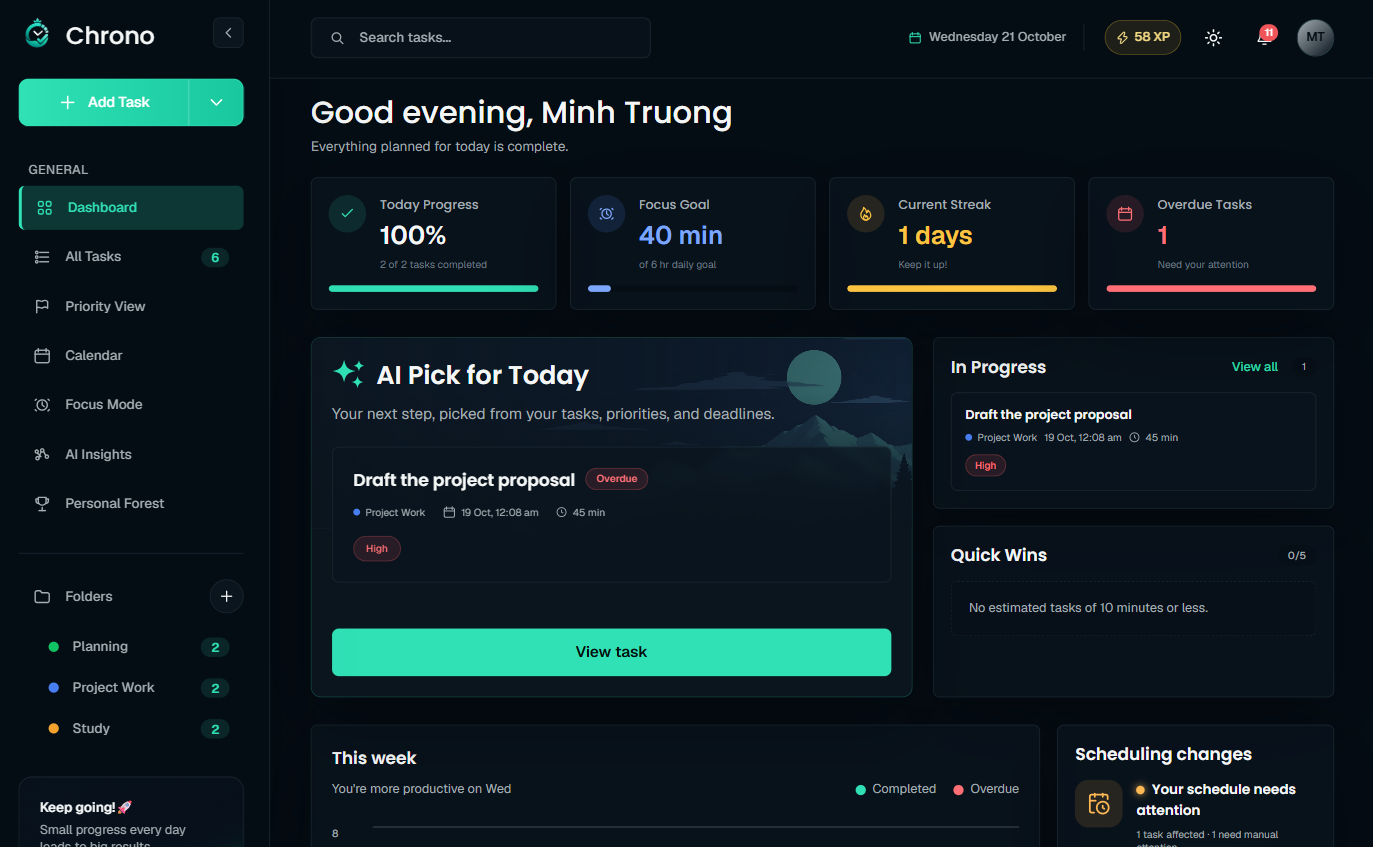
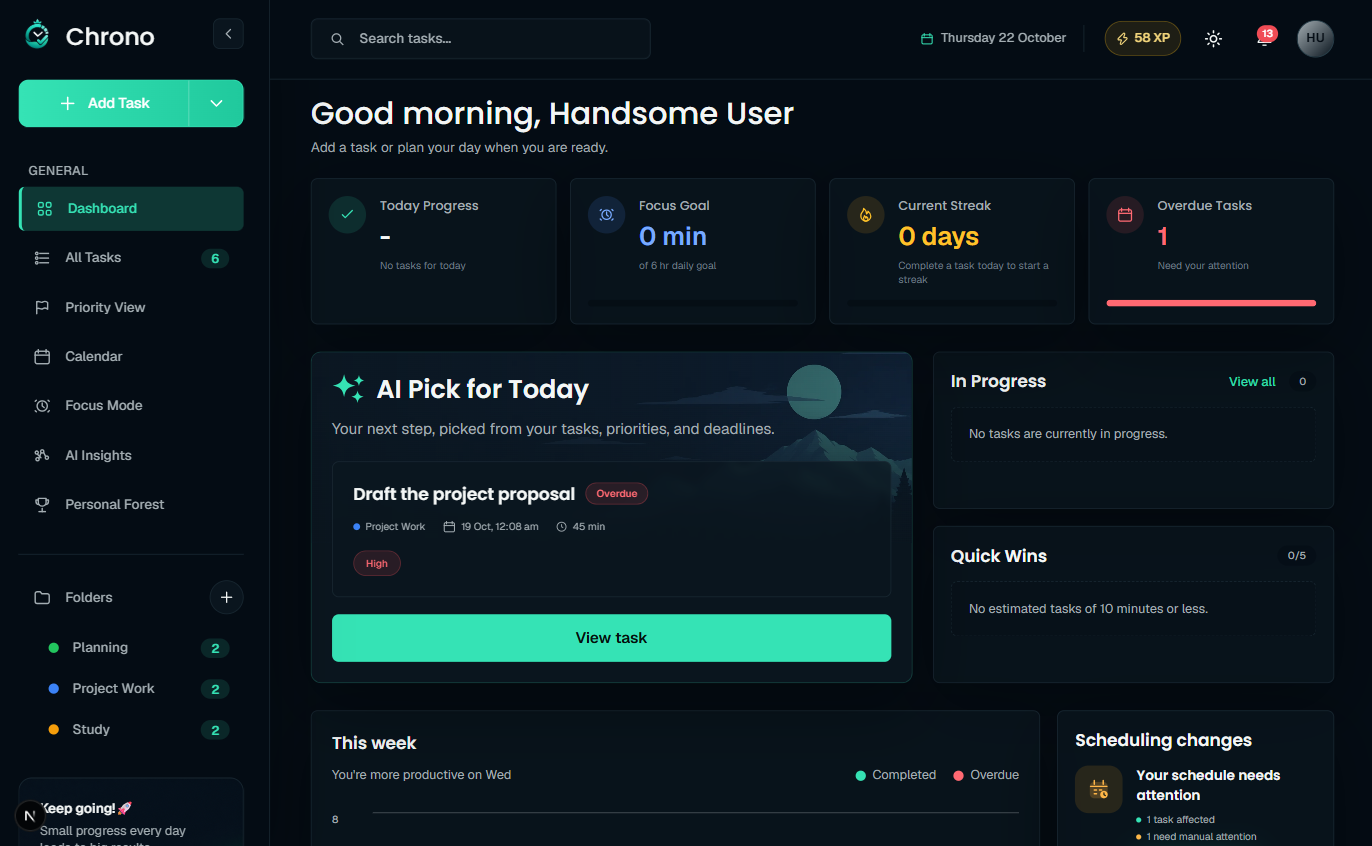
mock up update

diff --git a/frontend/web/components/landing/landing-page.tsx b/frontend/web/components/landing/landing-page.tsx
@@ -106,8 +106,8 @@ export function LandingPage() {
                   <img
                     src="/images/landing/mockup-dashboard-desktop.png"
                     alt="Chrono dashboard on a desktop, with progress cards, AI task recommendations, and task lists"
-                    width={1373}
-                    height={847}
+                    width={1372}
+                    height={846}
                     loading="lazy"
                   />
                 </div>
@@ -122,45 +122,12 @@ export function LandingPage() {
                   loading="lazy"
                 />
                 <div className={styles.mobileScreen}>
-                  <div className={styles.mobileStatusBar} aria-hidden="true">
-                    <span>9:41</span>
-                    <svg className={styles.mobileStatusIcons} viewBox="0 0 44 16" fill="none">
-                      <path
-                        d="M2 13V10M6 13V8M10 13V6M14 13V3"
-                        stroke="currentColor"
-                        strokeWidth="2"
-                        strokeLinecap="round"
-                      />
-                      <path
-                        d="M19 6.5a7 7 0 0 1 10 0M21.5 9a3.5 3.5 0 0 1 5 0M24 11.5h.01"
-                        stroke="currentColor"
-                        strokeWidth="1.7"
-                        strokeLinecap="round"
-                      />
-                      <rect
-                        x="33"
-                        y="3.5"
-                        width="9"
-                        height="9"
-                        rx="2"
-                        stroke="currentColor"
-                        strokeWidth="1.5"
-                      />
-                      <path
-                        d="M43 6.5v3"
-                        stroke="currentColor"
-                        strokeWidth="1.5"
-                        strokeLinecap="round"
-                      />
-                      <rect x="35" y="5.5" width="5" height="5" rx="1" fill="currentColor" />
-                    </svg>
-                  </div>
                   <img
                     className={styles.mobileDashboardCapture}
                     src="/images/landing/mockup-dashboard-mobile.png"
-                    alt="Chrono dashboard on a phone, with progress cards and an AI task recommendation"
-                    width={422}
-                    height={847}
+                    alt="Chrono mobile dashboard with progress cards, an AI task recommendation, and bottom navigation"
+                    width={397}
+                    height={798}
                     loading="lazy"
                   />
                 </div>

diff --git a/frontend/web/app/landing/page.module.css b/frontend/web/app/landing/page.module.css
@@ -648,34 +648,12 @@
   background: #242424;
   pointer-events: none;
 }
-.mobileStatusBar {
-  position: absolute;
-  z-index: 3;
-  top: 0;
-  left: 0;
-  display: flex;
-  width: 100%;
-  height: 5.3%;
-  align-items: center;
-  justify-content: space-between;
-  padding: 0 9%;
-  background: #040c14;
-  color: #eef5f3;
-  font-size: clamp(5px, 1vw, 8px);
-  font-weight: 650;
-  letter-spacing: 0.01em;
-}
-.mobileStatusIcons {
-  display: block;
-  width: 22%;
-  height: auto;
-}
 .mobileDashboardCapture {
   position: absolute;
-  top: 5.3%;
+  top: 0;
   left: 0;
   width: 100%;
-  height: 94.7%;
+  height: 100%;
   object-fit: contain;
   object-position: center top;
 }
